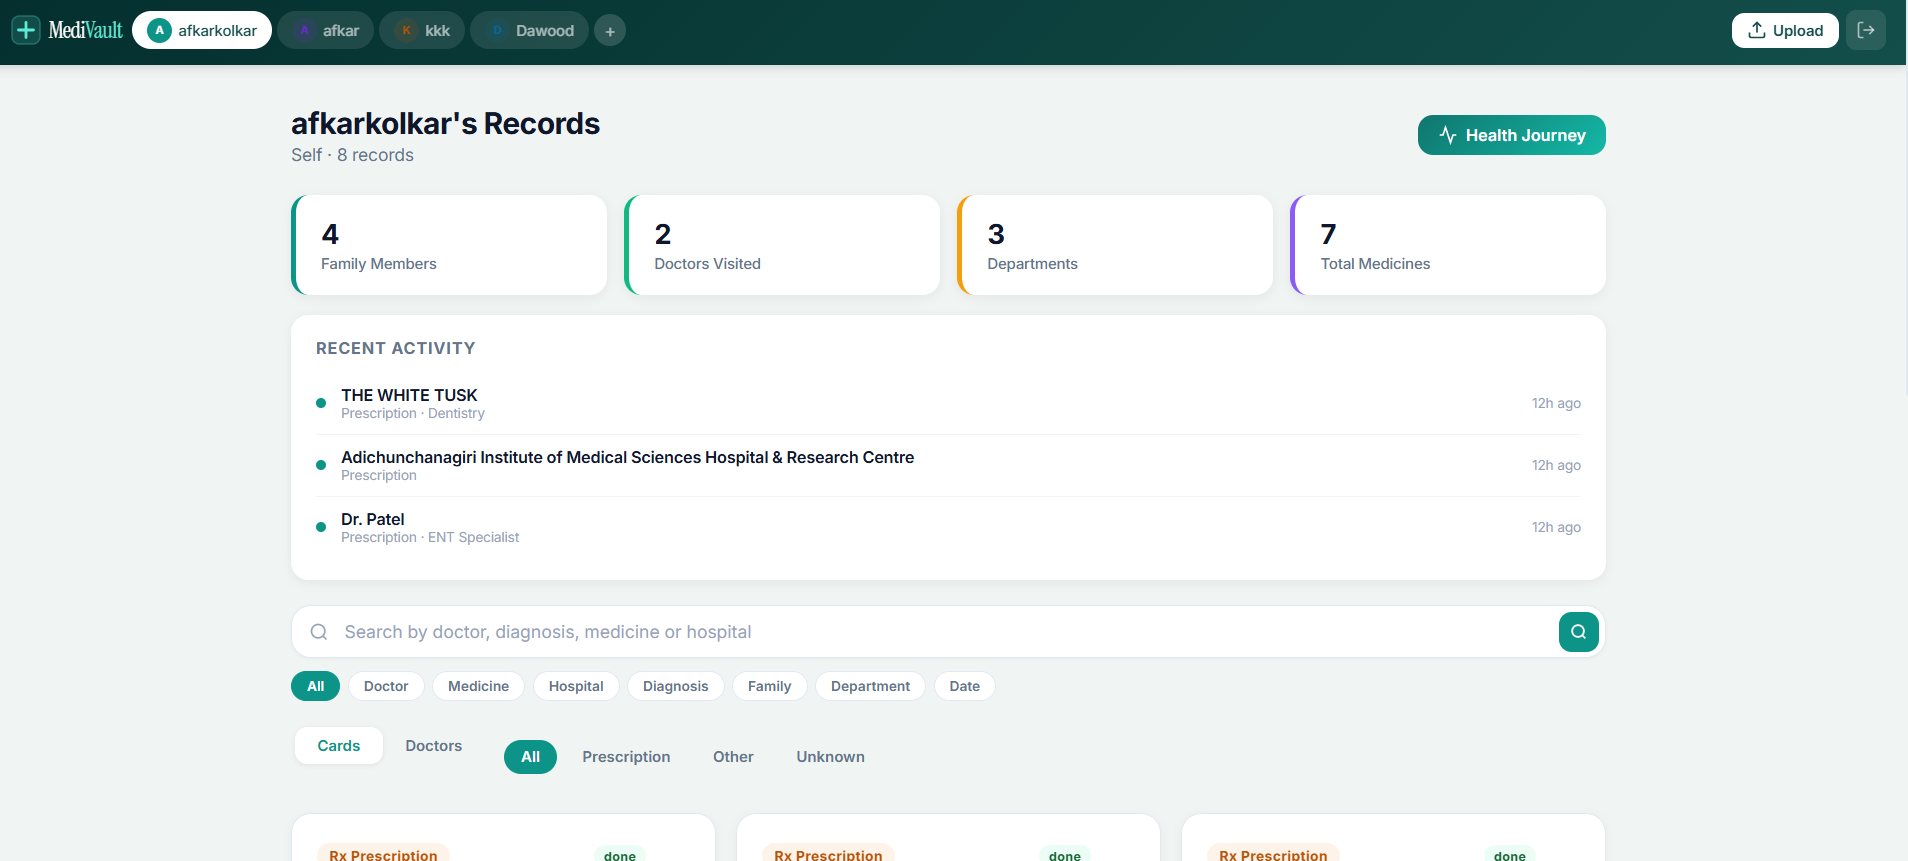
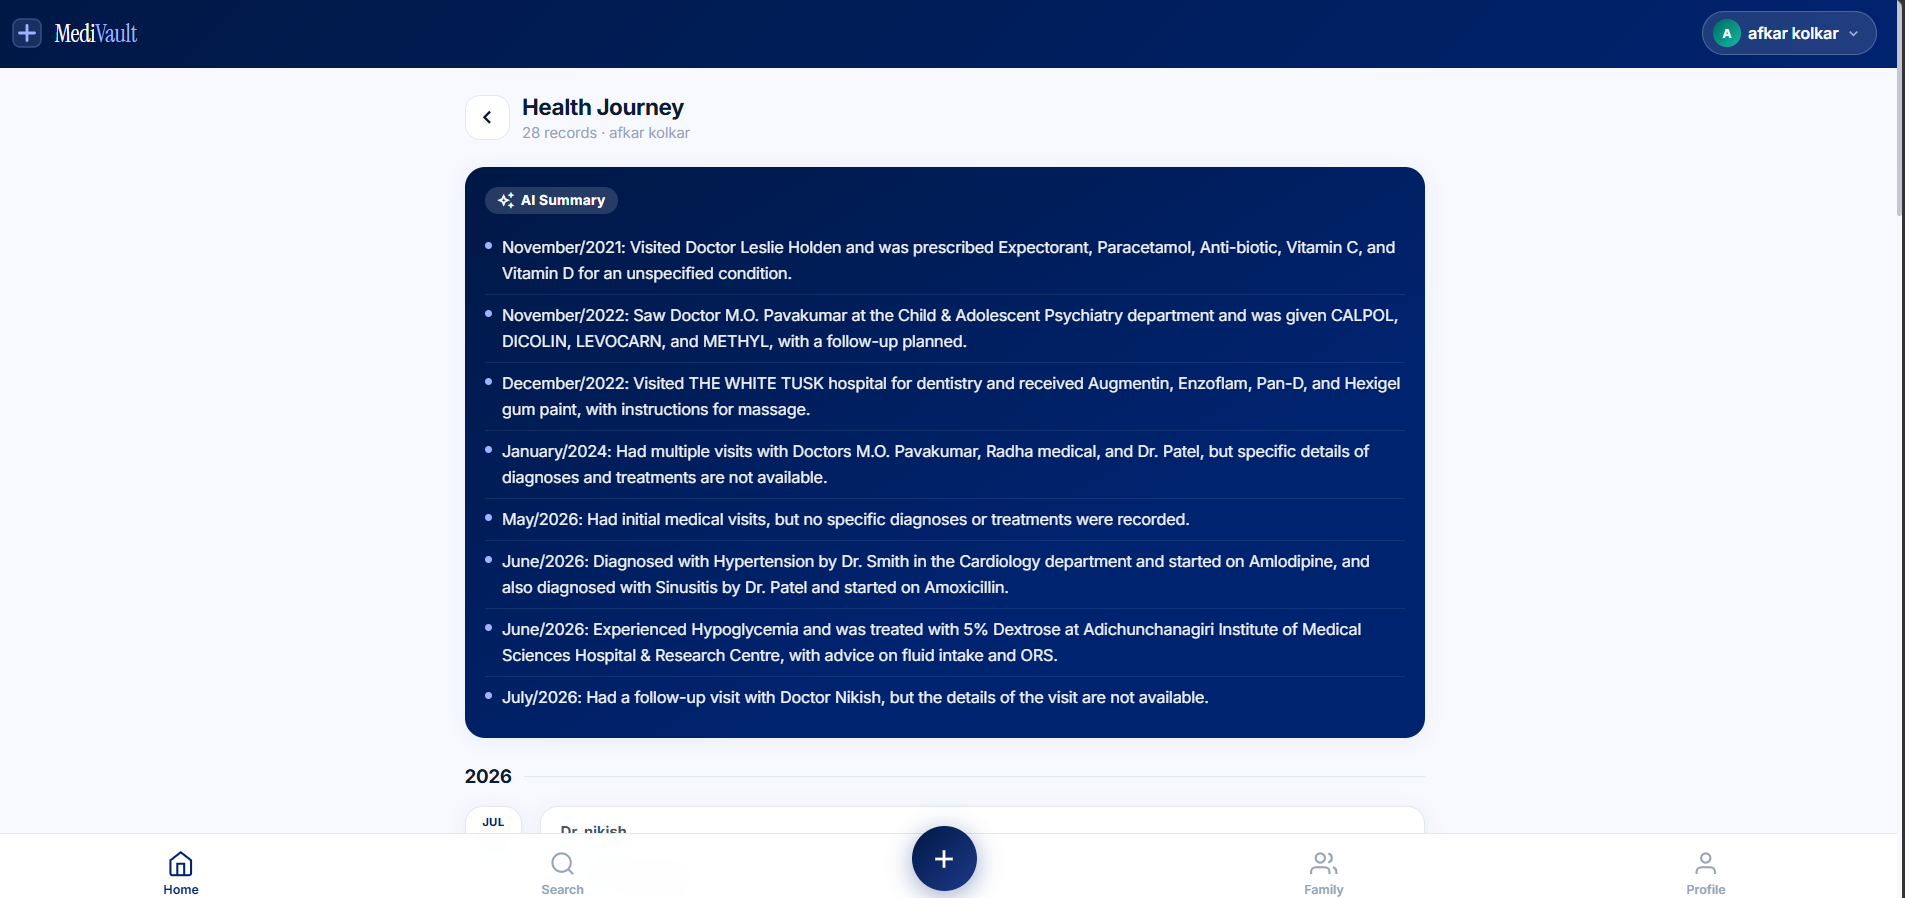
Update README screenshots with the navy redesign, add desktop Health Journey shot

diff --git a/README.md b/README.md
@@ -25,31 +25,31 @@
 
 <table>
   <tr>
-    <td width="25%"><img src="screenshots/mobile-login.jpeg" alt="Mobile Login" /></td>
-    <td width="25%"><img src="screenshots/mobile-dashboard.jpeg" alt="Mobile Dashboard" /></td>
-    <td width="25%"><img src="screenshots/mobile-records.jpeg" alt="Mobile Records" /></td>
-    <td width="25%"><img src="screenshots/mobile-health-journey.jpeg" alt="Health Journey" /></td>
+    <td width="25%"><img src="screenshots/mobile-login.png" alt="Mobile Login" /></td>
+    <td width="25%"><img src="screenshots/mobile-dashboard.png" alt="Mobile Dashboard" /></td>
+    <td width="25%"><img src="screenshots/mobile-doctors.png" alt="Doctors List" /></td>
+    <td width="25%"><img src="screenshots/mobile-health-journey.png" alt="Health Journey" /></td>
   </tr>
   <tr>
-    <td align="center">Login</td>
+    <td align="center">Sign In</td>
     <td align="center">Dashboard</td>
-    <td align="center">Records & Search</td>
+    <td align="center">Doctors</td>
     <td align="center">AI Health Journey</td>
   </tr>
 </table>
 
 <table>
   <tr>
-    <td width="25%"><img src="screenshots/mobile-record-detail.jpeg" alt="Record Detail" /></td>
-    <td width="25%"><img src="screenshots/mobile-ocr-scan.jpeg" alt="OCR Scan" /></td>
-    <td width="25%"><img src="screenshots/mobile-ocr-text.jpeg" alt="OCR Text" /></td>
-    <td width="25%"><img src="screenshots/mobile-add-family.jpeg" alt="Add Family" /></td>
+    <td width="25%"><img src="screenshots/mobile-record-detail.png" alt="Record Detail" /></td>
+    <td width="25%"><img src="screenshots/mobile-upload.png" alt="Upload Flow" /></td>
+    <td width="25%"><img src="screenshots/mobile-bills.png" alt="Bills & Insurance" /></td>
+    <td width="25%"><img src="screenshots/mobile-add-family.png" alt="Family Members" /></td>
   </tr>
   <tr>
     <td align="center">Record Details</td>
-    <td align="center">Handwritten Rx Scan</td>
-    <td align="center">Extracted OCR Text</td>
-    <td align="center">Add Family Member</td>
+    <td align="center">Upload Flow</td>
+    <td align="center">Bills & Insurance</td>
+    <td align="center">Family Members</td>
   </tr>
 </table>
 
@@ -59,10 +59,12 @@
   <tr>
     <td><img src="screenshots/desktop-login.png" alt="Login" /></td>
     <td><img src="screenshots/desktop-dashboard.png" alt="Dashboard" /></td>
+    <td><img src="screenshots/desktop-health-journey.png" alt="Health Journey" /></td>
   </tr>
   <tr>
     <td align="center"><strong>Sign In</strong></td>
     <td align="center"><strong>Dashboard</strong></td>
+    <td align="center"><strong>Health Journey</strong></td>
   </tr>
 </table>
 
